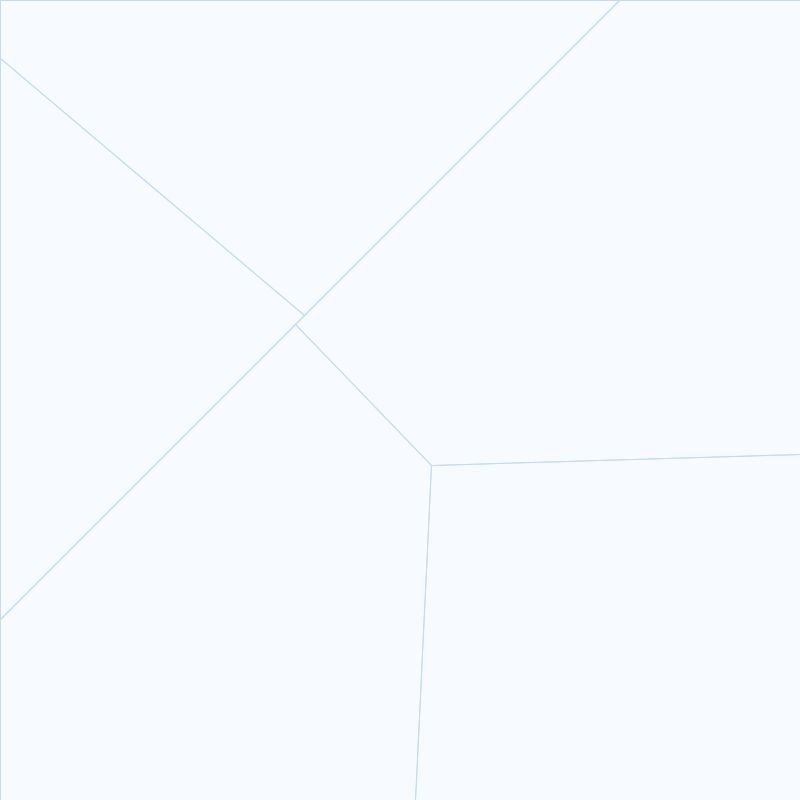
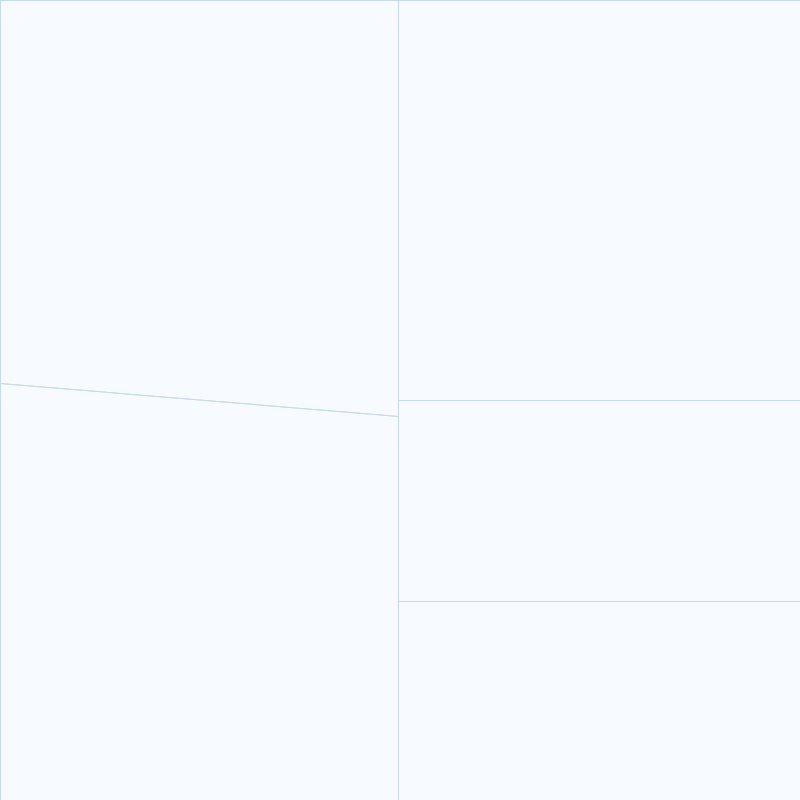
more java testing

diff --git a/TestVoronoiTreemap/src/TestMain.java b/TestVoronoiTreemap/src/TestMain.java
@@ -7,6 +7,7 @@ import kn.uni.voronoitreemap.interfaces.MainClass;
 import kn.uni.voronoitreemap.interfaces.VoronoiTreemapInterface;
 import kn.uni.voronoitreemap.interfaces.data.Tuple2ID;
 import kn.uni.voronoitreemap.j2d.PolygonSimple;
+import kn.uni.voronoitreemap.renderer.VoroRenderer;
 
 
 public class TestMain {
@@ -25,9 +26,15 @@ public class TestMain {
 		//Get the voronoi treemap with the your status object as parameter and whether you want to use multithreaded computation
 		VoronoiTreemapInterface voronoiTreemap = MainClass.getInstance(statusObject,true);
 		
+		//voronoiTreemap.setNumberMaxIterations(5000);
+		voronoiTreemap.setCancelOnThreshold(true);
+		
+		// just do this at the end...
+		/*
 		// needs treemap?
 		PNGStatusObject pngStatusObject = new PNGStatusObject("test.png", voronoiTreemap);
 		voronoiTreemap.setStatusObject(pngStatusObject);
+		*/
 
 		//Set root polygon
 		voronoiTreemap.setRootPolygon(root);
@@ -35,36 +42,44 @@ public class TestMain {
 		//Insert the tree structure with the format List<List<Integer>> as an adjacency list:
 		//E.g. if a node 1 has children 3,7 and 9 the List must have an entry (1,3,7,9)
 
-
 		ArrayList<ArrayList<Integer>> treeList = new ArrayList<ArrayList<Integer>>();
 		treeList.add(new ArrayList<Integer> (Arrays.asList(1,2,3)));
 		treeList.add(new ArrayList<Integer> (Arrays.asList(2,4,5)));
 		treeList.add(new ArrayList<Integer> (Arrays.asList(3,6,7,8)));
 		voronoiTreemap.setTree(treeList);
+		
 
 		//Optional set AreaGoals (=weighting for each node which influences the final area the polygon of a cell will have)
 		//(can only be set after the tree structure is defined (setTree(...)))
 		//Format: Tuple2ID with (NodeId, weight) e.g. Node 1 (1,0.55)
 		ArrayList<Tuple2ID> areaGoals = new ArrayList<Tuple2ID>();
+		// only need children...
+		// so I don't know why it works now...there was some issue with weights not converging...hmmm
+		//areaGoals.add(new Tuple2ID(1,1));
+		//areaGoals.add(new Tuple2ID(2,1));
+		//areaGoals.add(new Tuple2ID(3,1));
+		areaGoals.add(new Tuple2ID(4,2));
+		areaGoals.add(new Tuple2ID(5,2));
+		areaGoals.add(new Tuple2ID(6,1));
+		areaGoals.add(new Tuple2ID(7,1));
+		areaGoals.add(new Tuple2ID(8,2));
 		/*
-		areaGoals.add(new Tuple2ID(1,1.0));
-		areaGoals.add(new Tuple2ID(2,4.0));
-		areaGoals.add(new Tuple2ID(3,1.0));
-		areaGoals.add(new Tuple2ID(4,9));
-		areaGoals.add(new Tuple2ID(5,1));
-		areaGoals.add(new Tuple2ID(6,0.05));
-		areaGoals.add(new Tuple2ID(7,0.10));
-		areaGoals.add(new Tuple2ID(8,0.85));
-		*/
 		int numNodes = 8; // really?  1 indexed?
 		for (int i = 1; i <= numNodes; ++i) {
 			//areaGoals.add(new Tuple2ID(i, 1));
 			areaGoals.add(new Tuple2ID(i, i));
 		}
+		*/
 		voronoiTreemap.setAreaGoals(areaGoals);
 
 		//Now compute the voronoi treemap
-		voronoiTreemap.compute();
+		//voronoiTreemap.compute();
+		voronoiTreemap.computeLocked();
+		
+		// can do this here??
+		VoroRenderer renderer=new VoroRenderer();
+		renderer.setTreemap(voronoiTreemap);
+		renderer.renderTreemap("test.png");
 
 		//Handle the results in statusObject.finished() or respectively in statusObject.finishedNode(int node, int layer, int[] children, PolygonSimple[] polygons)
 	}

diff --git a/TestVoronoiTreemap/src/StatusObjectImpl.java b/TestVoronoiTreemap/src/StatusObjectImpl.java
@@ -16,7 +16,7 @@ public class StatusObjectImpl implements kn.uni.voronoitreemap.interfaces.Status
 					System.out.println("poly == null");
 				}
 				else {
-					System.out.println(poly.toString());
+					//System.out.println(poly.toString());
 					System.out.println(poly.getArea());
 				}
 			}
